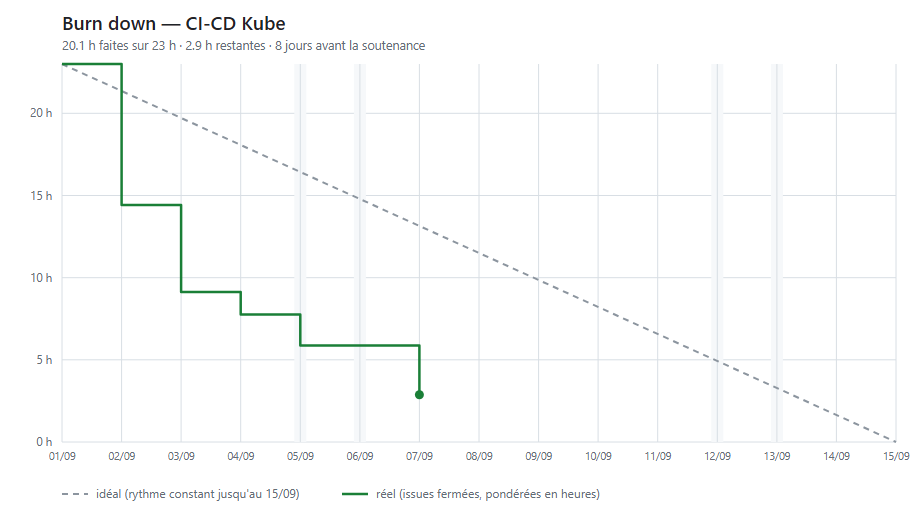
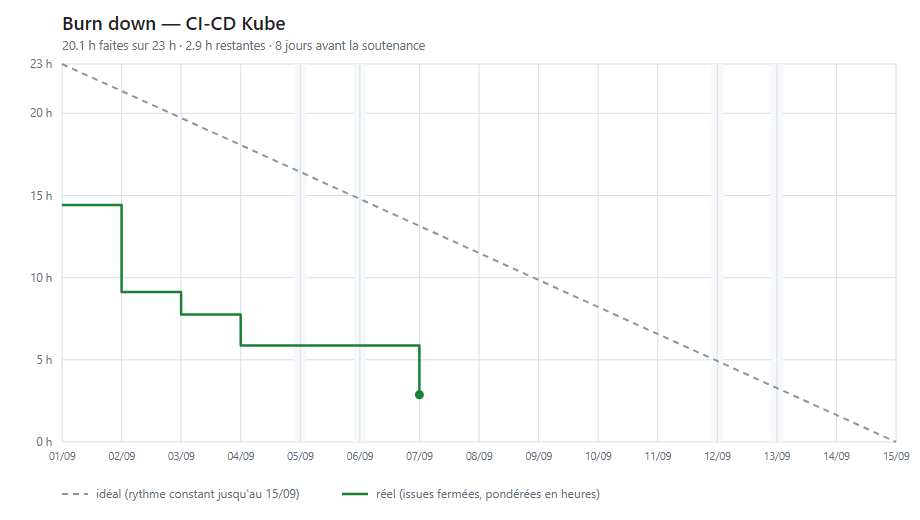
chore: separe le burn down du bonus de celui du sujet
Les lots 8 a 12 ajoutent 19,5 h hors perimetre. Les fusionner dans la
courbe existante aurait fait sauter le total de 23 h a 42,5 h et rendu
illisible l'avancement sur ce qui est note. Le script produit desormais
deux series independantes, chacune avec sa fenetre et son echeance.

Changed region(s): [[0.0609, 0.0923, 0.3348, 0.6769], [0.0304, 0.0923, 0.0609, 0.1231]]

diff --git a/scripts/burndown.py b/scripts/burndown.py
@@ -7,18 +7,39 @@ import sys
 from datetime import date, datetime, timedelta
 
 REPO = "ArthurDescourvieres/ci-cd-kube"
-START = date(2026, 9, 1)
-END = date(2026, 9, 15)  # demo devant le formateur
 
-LOTS = [
-    ("0 - Setup",         1,  3,  1.0),
-    ("1 - App",           4,  8,  2.0),
-    ("2 - Docker",        9, 15,  3.0),
-    ("3 - CI",           16, 21,  4.0),
-    ("4 - Notifications", 22, 25,  2.0),
-    ("5 - Kubernetes",   26, 33,  5.0),
-    ("6 - CD",           34, 37,  3.0),
-    ("7 - Rendu",        38, 41,  3.0),
+CHARTS = [
+    {
+        "nom": "burndown",
+        "titre": "Burn down — CI-CD Kube",
+        "echeance": "la soutenance",
+        "start": date(2026, 9, 1),
+        "end": date(2026, 9, 15),
+        "lots": [
+            ("0 - Setup",         1,  3,  1.0),
+            ("1 - App",           4,  8,  2.0),
+            ("2 - Docker",        9, 15,  3.0),
+            ("3 - CI",           16, 21,  4.0),
+            ("4 - Notifications", 22, 25,  2.0),
+            ("5 - Kubernetes",   26, 33,  5.0),
+            ("6 - CD",           34, 37,  3.0),
+            ("7 - Rendu",        38, 41,  3.0),
+        ],
+    },
+    {
+        "nom": "burndown-bonus",
+        "titre": "Burn down — bonus (hors périmètre du sujet)",
+        "echeance": "le gel du bonus",
+        "start": date(2026, 9, 7),
+        "end": date(2026, 9, 14),
+        "lots": [
+            ("8 - CRUD",       47, 52, 4.5),
+            ("9 - Frontend",   53, 57, 4.0),
+            ("10 - CI multi",  58, 62, 3.5),
+            ("11 - K8s multi", 63, 69, 5.0),
+            ("12 - Sécurité",  70, 74, 2.5),
+        ],
+    },
 ]
 
 W, H = 920, 520
@@ -30,9 +51,9 @@ INK, MUTED, GRID = "#1f2328", "#656d76", "#d8dee4"
 IDEAL, ACTUAL, LATE = "#8c959f", "#1a7f37", "#cf222e"
 
 
-def poids_par_issue():
+def poids_par_issue(lots):
     p = {}
-    for _, lo, hi, heures in LOTS:
+    for _, lo, hi, heures in lots:
         n = hi - lo + 1
         for num in range(lo, hi + 1):
             p[num] = heures / n
@@ -53,71 +74,73 @@ def issues():
     return json.loads(out)
 
 
-def serie_reelle(data, poids):
+def serie_reelle(data, poids, start, end):
     total = sum(poids.values())
     fermees = {}
     for i in data:
-        if i["closedAt"]:
+        if i["closedAt"] and i["number"] in poids:
             d = datetime.fromisoformat(i["closedAt"].replace("Z", "+00:00")).date()
-            d = max(d, START)
             fermees.setdefault(d, 0.0)
-            fermees[d] += poids.get(i["number"], 0.0)
+            fermees[d] += poids[i["number"]]
 
-    aujourdhui = min(date.today(), END)
+    aujourdhui = min(date.today(), end)
     serie, reste = [], total
-    j = START
+    j = start
     while j <= aujourdhui:
-        # le point du jour j vaut le reste au matin : la courbe part donc du
-        # total, comme la droite ideale, et chaque journee se lit comme une
-        # marche descendante.
-        serie.append((j, round(reste, 3)))
         reste -= fermees.get(j, 0.0)
+        serie.append((j, round(reste, 3)))
         j += timedelta(days=1)
-    serie.append((aujourdhui, round(reste, 3)))
     return total, serie
 
 
-def x(j):
-    return M["l"] + PLOT_W * ((j - START).days / max((END - START).days, 1))
+def x(j, cfg):
+    span = max((cfg["end"] - cfg["start"]).days, 1)
+    return M["l"] + PLOT_W * ((j - cfg["start"]).days / span)
 
 
 def y(v, total):
     return M["t"] + PLOT_H * (1 - v / total) if total else M["t"] + PLOT_H
 
 
-def svg(total, serie):
+def svg(cfg, total, serie):
+    start, end = cfg["start"], cfg["end"]
     s = [
         f'<svg xmlns="http://www.w3.org/2000/svg" width="{W}" height="{H}" '
         f'viewBox="0 0 {W} {H}" font-family="Segoe UI, Helvetica, Arial, sans-serif">',
         f'<rect width="{W}" height="{H}" fill="#ffffff"/>',
         f'<text x="{M["l"]}" y="30" font-size="19" font-weight="600" fill="{INK}">'
-        f'Burn down — CI-CD Kube</text>',
+        f'{cfg["titre"]}</text>',
     ]
 
     reste = serie[-1][1] if serie else total
     fait = total - reste
-    jours = (END - date.today()).days
+    jours = (end - date.today()).days
     s.append(
         f'<text x="{M["l"]}" y="50" font-size="12.5" fill="{MUTED}">'
-        f'{fait:.1f} h faites sur {total:.0f} h · {reste:.1f} h restantes · '
-        f'{jours} jours avant la soutenance</text>'
+        f'{fait:.1f} h faites sur {total:g} h · {reste:.1f} h restantes · '
+        f'{jours} jours avant {cfg["echeance"]}</text>'
     )
 
     pas = 5
-    v = 0
+    graduations = []
+    v = 0.0
     while v <= total + 0.01:
+        graduations.append(v)
+        v += pas
+    if total - graduations[-1] > 0.01:
+        graduations.append(total)
+
+    for v in graduations:
         yy = y(v, total)
         s.append(f'<line x1="{M["l"]}" y1="{yy:.1f}" x2="{M["l"]+PLOT_W}" '
                  f'y2="{yy:.1f}" stroke="{GRID}" stroke-width="1"/>')
         s.append(f'<text x="{M["l"]-10}" y="{yy+4:.1f}" font-size="11.5" '
-                 f'fill="{MUTED}" text-anchor="end">{v:.0f} h</text>')
-        v += pas
+                 f'fill="{MUTED}" text-anchor="end">{v:g} h</text>')
 
-    j = START
-    while j <= END:
-        xx = x(j)
-        weekend = j.weekday() >= 5
-        if weekend:
+    j = start
+    while j <= end:
+        xx = x(j, cfg)
+        if j.weekday() >= 5:
             s.append(f'<rect x="{xx-6:.1f}" y="{M["t"]}" width="12" '
                      f'height="{PLOT_H}" fill="#f6f8fa"/>')
         s.append(f'<line x1="{xx:.1f}" y1="{M["t"]}" x2="{xx:.1f}" '
@@ -126,31 +149,31 @@ def svg(total, serie):
                  f'fill="{MUTED}" text-anchor="middle">{j.strftime("%d/%m")}</text>')
         j += timedelta(days=1)
 
-    s.append(f'<line x1="{x(START):.1f}" y1="{y(total,total):.1f}" '
-             f'x2="{x(END):.1f}" y2="{y(0,total):.1f}" stroke="{IDEAL}" '
+    s.append(f'<line x1="{x(start, cfg):.1f}" y1="{y(total,total):.1f}" '
+             f'x2="{x(end, cfg):.1f}" y2="{y(0,total):.1f}" stroke="{IDEAL}" '
              f'stroke-width="2" stroke-dasharray="6 5"/>')
 
     if serie:
         pts, prev = [], None
         for j, v in serie:
             if prev is not None:
-                pts.append(f"{x(j):.1f},{y(prev,total):.1f}")
-            pts.append(f"{x(j):.1f},{y(v,total):.1f}")
+                pts.append(f"{x(j, cfg):.1f},{y(prev,total):.1f}")
+            pts.append(f"{x(j, cfg):.1f},{y(v,total):.1f}")
             prev = v
-        en_retard = serie[-1][1] > total * (1 - (date.today()-START).days /
-                                            max((END-START).days, 1)) + 0.01
+        ecoule = (date.today() - start).days / max((end - start).days, 1)
+        en_retard = serie[-1][1] > total * (1 - ecoule) + 0.01
         col = LATE if en_retard else ACTUAL
         s.append(f'<polyline points="{" ".join(pts)}" fill="none" '
                  f'stroke="{col}" stroke-width="2.5" stroke-linejoin="round"/>')
         jd, vd = serie[-1]
-        s.append(f'<circle cx="{x(jd):.1f}" cy="{y(vd,total):.1f}" r="4.5" '
+        s.append(f'<circle cx="{x(jd, cfg):.1f}" cy="{y(vd,total):.1f}" r="4.5" '
                  f'fill="{col}"/>')
 
     ly = H - 26
     s.append(f'<line x1="{M["l"]}" y1="{ly}" x2="{M["l"]+26}" y2="{ly}" '
              f'stroke="{IDEAL}" stroke-width="2" stroke-dasharray="6 5"/>')
     s.append(f'<text x="{M["l"]+34}" y="{ly+4}" font-size="12" fill="{MUTED}">'
-             f'idéal (rythme constant jusqu\'au {END:%d/%m})</text>')
+             f'idéal (rythme constant jusqu\'au {end:%d/%m})</text>')
     s.append(f'<line x1="{M["l"]+280}" y1="{ly}" x2="{M["l"]+306}" y2="{ly}" '
              f'stroke="{ACTUAL}" stroke-width="2.5"/>')
     s.append(f'<text x="{M["l"]+314}" y="{ly+4}" font-size="12" fill="{MUTED}">'
@@ -179,20 +202,22 @@ def main():
     racine = os.path.dirname(os.path.dirname(os.path.abspath(__file__)))
     docs = os.path.join(racine, "docs")
     os.makedirs(docs, exist_ok=True)
+    data = issues()
 
-    poids = poids_par_issue()
-    total, serie = serie_reelle(issues(), poids)
+    for cfg in CHARTS:
+        poids = poids_par_issue(cfg["lots"])
+        total, serie = serie_reelle(data, poids, cfg["start"], cfg["end"])
 
-    svg_path = os.path.join(docs, "burndown.svg")
-    png_path = os.path.join(docs, "burndown.png")
-    with open(svg_path, "w", encoding="utf-8") as f:
-        f.write(svg(total, serie))
-    ok = en_png(svg_path, png_path)
+        svg_path = os.path.join(docs, cfg["nom"] + ".svg")
+        png_path = os.path.join(docs, cfg["nom"] + ".png")
+        with open(svg_path, "w", encoding="utf-8") as f:
+            f.write(svg(cfg, total, serie))
+        ok = en_png(svg_path, png_path)
 
-    reste = serie[-1][1] if serie else total
-    print(f"docs/burndown.svg écrit — reste {reste:.1f} h sur {total:.0f} h")
-    if ok:
-        print("docs/burndown.png écrit")
+        reste = serie[-1][1] if serie else total
+        print(f"docs/{cfg['nom']}.svg écrit — reste {reste:.1f} h sur {total:g} h")
+        if ok:
+            print(f"docs/{cfg['nom']}.png écrit")
 
 
 if __name__ == "__main__":
